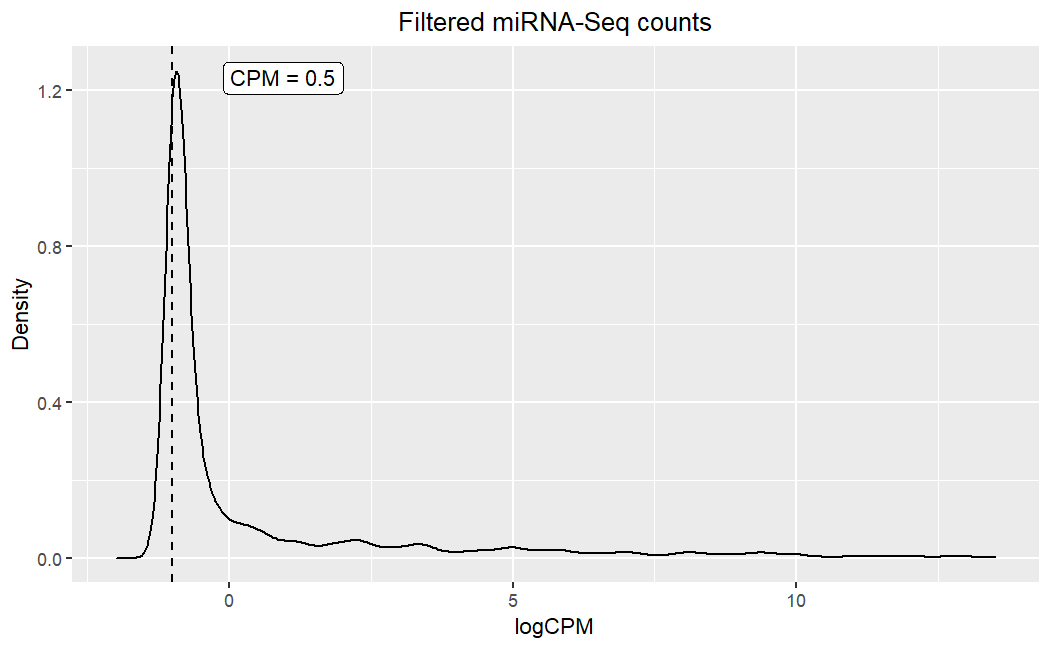
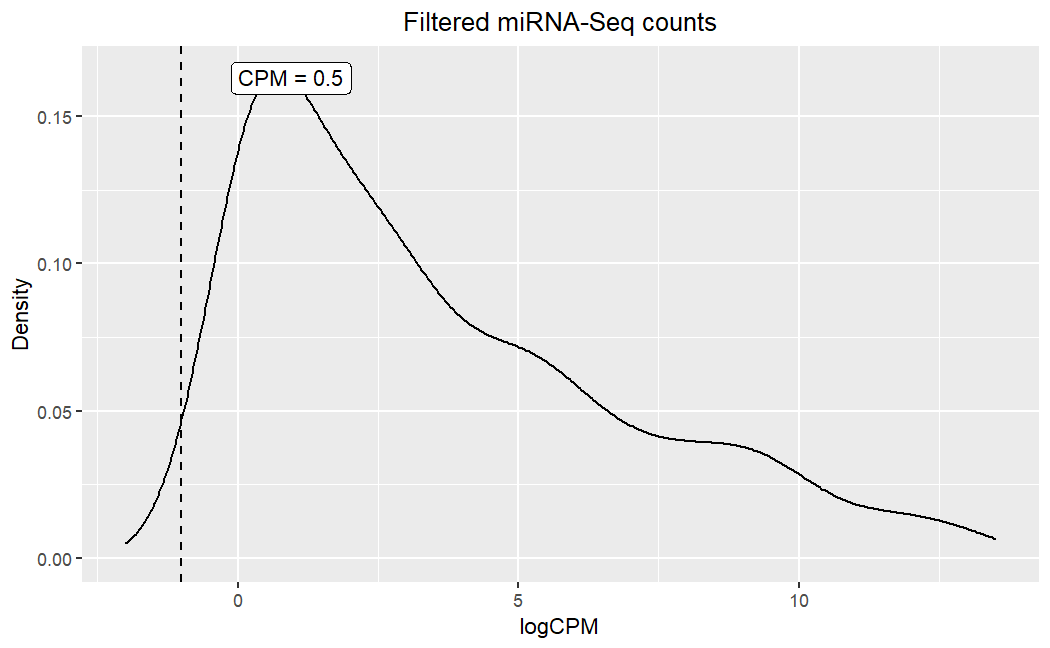
commit

diff --git a/scripts/preprocessing/cookingmiRNASeq.md b/scripts/preprocessing/cookingmiRNASeq.md
@@ -268,7 +268,7 @@ save(mirna.filt.counts, file = "data/cooked/miRNA-Seq/miRNA.filt.rda")
 ```
 
 ``` r
-mean_log_cpm <- aveLogCPM(mirna.raw.counts)
+mean_log_cpm <- aveLogCPM(mirna.filt.counts)
 
 filter_threshold <- log2(0.5)
 
@@ -905,15 +905,32 @@ and `edgeR`, since `limma` appears to miss out on quite a few of them.
 common.activated <- intersect(intersect(activated.genes.deseq2, activated.genes.edger), activated.genes.limma.voom) # 86
 common.repressed <- intersect(intersect(repressed.genes.deseq2, repressed.genes.edger), repressed.genes.limma.voom) # 91
 
+log.fold.change <- top.limma$logFC
+q.value <- top.limma$adj.P.Val
+genes.ids <- rownames(top.limma)
+names(log.fold.change) <- genes.ids
+names(q.value) <- genes.ids
+
+log.q.val <- -log10(q.value)
+plot(log.fold.change,log.q.val,pch=19,col="grey",cex=0.8,
+xlim=c(-4,4),ylim = c(0,100),
+xlab="log2(Fold-change)",ylab="-log10(q-value)",cex.lab=1.5)
+points(x = log.fold.change[common.activated],
+y = log.q.val[common.activated],col="red",cex=0.8,pch=19)
+points(x = log.fold.change[common.repressed],
+y = log.q.val[common.repressed],col="blue",cex=0.8,pch=19)
+
 write.table(common.activated, file = "results/preprocessing/cookingmiRNASeq/common.up.txt", row.names = FALSE, col.names = FALSE, quote = FALSE)
 
 write.table(common.repressed, file = "results/preprocessing/cookingmiRNASeq/common.down.txt", row.names = FALSE, col.names = FALSE, quote = FALSE)
 ```
 
+![](images/cookingmiRNASeq/volcano.plot.common.png)
+
 |    DEGs     | DESeq2 | limma-voom | edgeR | Common |
 |:-----------:|:------:|:----------:|:-----:|:------:|
-| *Activated* |  132   |     79     |  129  |   67   |
-| *Repressed* |   83   |     93     |  76   |   56   |
+| *Activated* |  156   |     87     |  163  |   67   |
+| *Repressed* |  112   |    127     |  97   |   56   |
 |   *Total*   | *215*  |   *172*    | *205* | *123*  |
 
 We have 177 DEGs, a 27.6% of the filtered miRNAs (642) and a 8% of the

diff --git a/scripts/preprocessing/cookingRNASeq.md b/scripts/preprocessing/cookingRNASeq.md
@@ -1562,6 +1562,9 @@ rna.filt.counts$`TCGA-A7-A13D-01A-13R-A12P-07` <- NULL
 rna.filt.counts$`TCGA-A7-A13D-01B-04R-A277-07` <- NULL
 
 save(rna.filt.counts, file = "data/cooked/RNA-Seq/RNA.filt.rda")
+
+clinical <- rna.sample.info[colnames(rna.filt.counts), ]
+save(clinical, file = "data/raw/clinical.rda")
 ```
 
 We will perform normalization again, just to be sure.
@@ -1880,10 +1883,10 @@ summary(de)
 ```
 
 ``` r
-       cancer-normal
-Down             586
-NotSig         17760
-Up               972
+#        cancer-normal
+# Down             586
+# NotSig         17760
+# Up               972
 ```
 
 ``` r
@@ -1975,6 +1978,25 @@ length(common.activated) # 535
 common.repressed <- intersect(intersect(repressed.genes.deseq2, repressed.genes.edger), repressed.genes.limma) 
 length(common.repressed) # 486
 
+log.fold.change <- top.limma$logFC
+q.value <- top.limma$adj.P.Val
+genes.ids <- rownames(top.limma)
+names(log.fold.change) <- genes.ids
+names(q.value) <- genes.ids
+
+log.q.val <- -log10(q.value)
+plot(log.fold.change,log.q.val,pch=19,col="grey",cex=0.8,
+xlim=c(-8,8),ylim = c(0,150),
+xlab="log2(Fold-change)",ylab="-log10(q-value)",cex.lab=1.5)
+points(x = log.fold.change[common.activated],
+y = log.q.val[common.activated],col="red",cex=0.8,pch=19)
+points(x = log.fold.change[common.repressed],
+y = log.q.val[common.repressed],col="blue",cex=0.8,pch=19)
+```
+
+![](images/cookingRNASeq/volcano.plot.common.png)
+
+``` r
 write.table(common.activated, file = "results/preprocessing/cookingRNASeq/common.up.txt", row.names = FALSE, col.names = FALSE, quote = FALSE)
 
 write.table(common.repressed, file = "results/preprocessing/cookingRNASeq/common.down.txt", row.names = FALSE, col.names = FALSE, quote = FALSE)
